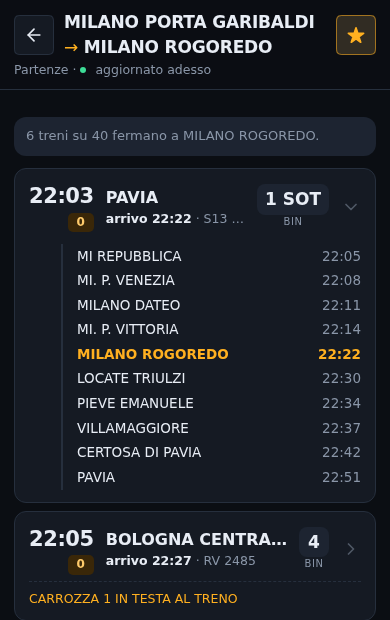
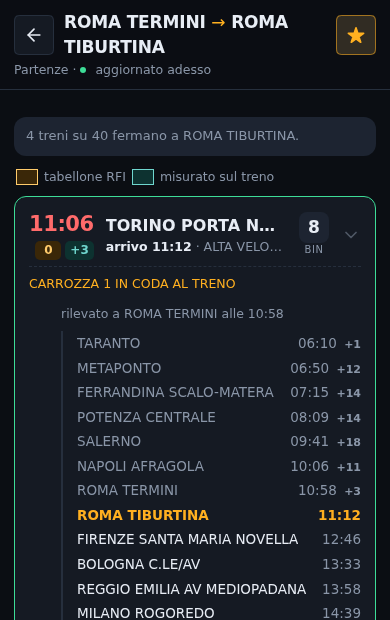
docs: retake the screenshots on the current interface
The four images predated the delay pills, the journey view and the blue light
accent, and the route shot still showed the plain list of scheduled stops.

The new route shot carries all three additions at once: a train opened on its
own journey, the stops it has already served dimmed and carrying the time it
actually passed — +1, +12, +14, +18, +11, +3, a delay growing and then coming
back down — the place it was last seen, and the stop where you get off still
picked out.

The example moves to Roma Termini and Roma Tiburtina. A board is a real
capture, so it shows whatever was leaving at that minute, and the previous
station's board named places that have no business being in a public
screenshot.

Each image is checked against the rendered page text before it is written, not
by eye.

diff --git a/README.md b/README.md
@@ -16,10 +16,10 @@ con l'orario a cui ci arrivano.
 
 |  |  |
 |:--|:--|
-| <img width="330" src="docs/home.png" alt="La home con quattro tratte fra i preferiti e le due voci per il tabellone di una stazione"> | <img width="330" src="docs/tratta.png" alt="I treni da Milano Porta Garibaldi che fermano a Milano Rogoredo, con l'elenco fermate aperto"> |
-| **Le tratte salvate stanno in cima**, e si aprono con un tocco; sotto, il tabellone intero di una stazione, partenze o arrivi. | **Solo i treni che fermano dove vai**, con l'ora a cui ci arrivano. Toccando il treno si aprono le fermate, con la tua evidenziata. |
-| <img width="330" src="docs/tabellone.png" alt="Il tabellone completo delle partenze da Milano Porta Garibaldi, con i due ritardi affiancati su ogni treno"> | <img width="330" src="docs/ricerca.png" alt="La ricerca stazione con la corrispondenza evidenziata in mezzo al nome"> |
-| **Il tabellone completo**: binari, soppressioni, avvisi e i **due ritardi** affiancati — in cima, un treno che per RFI ne ha 70 e per ViaggiaTreno 95. | **La ricerca** cerca dentro il nome, non solo all'inizio, e non tocca la rete. |
+| <img width="330" src="docs/home.png" alt="La home con quattro tratte fra i preferiti e le due voci per il tabellone di una stazione"> | <img width="330" src="docs/tratta.png" alt="I treni da Roma Termini che fermano a Roma Tiburtina, con il viaggio di un treno aperto"> |
+| **Le tratte salvate stanno in cima**, e si aprono con un tocco; sotto, il tabellone intero di una stazione, partenze o arrivi. | **Solo i treni che fermano dove vai**. Toccando il treno si apre il suo viaggio: dov'è adesso, e a che ora è passato davvero dalle fermate già servite. |
+| <img width="330" src="docs/tabellone.png" alt="Il tabellone completo delle partenze da Roma Termini, con i due ritardi affiancati su ogni treno"> | <img width="330" src="docs/ricerca.png" alt="La ricerca stazione con la corrispondenza evidenziata in mezzo al nome"> |
+| **Il tabellone completo**: binari, soppressioni, avvisi e i **due ritardi** affiancati, ambra il tabellone e ciano la misura sul treno. | **La ricerca** cerca dentro il nome, non solo all'inizio, e non tocca la rete. |
 
 ## Come funziona
 
